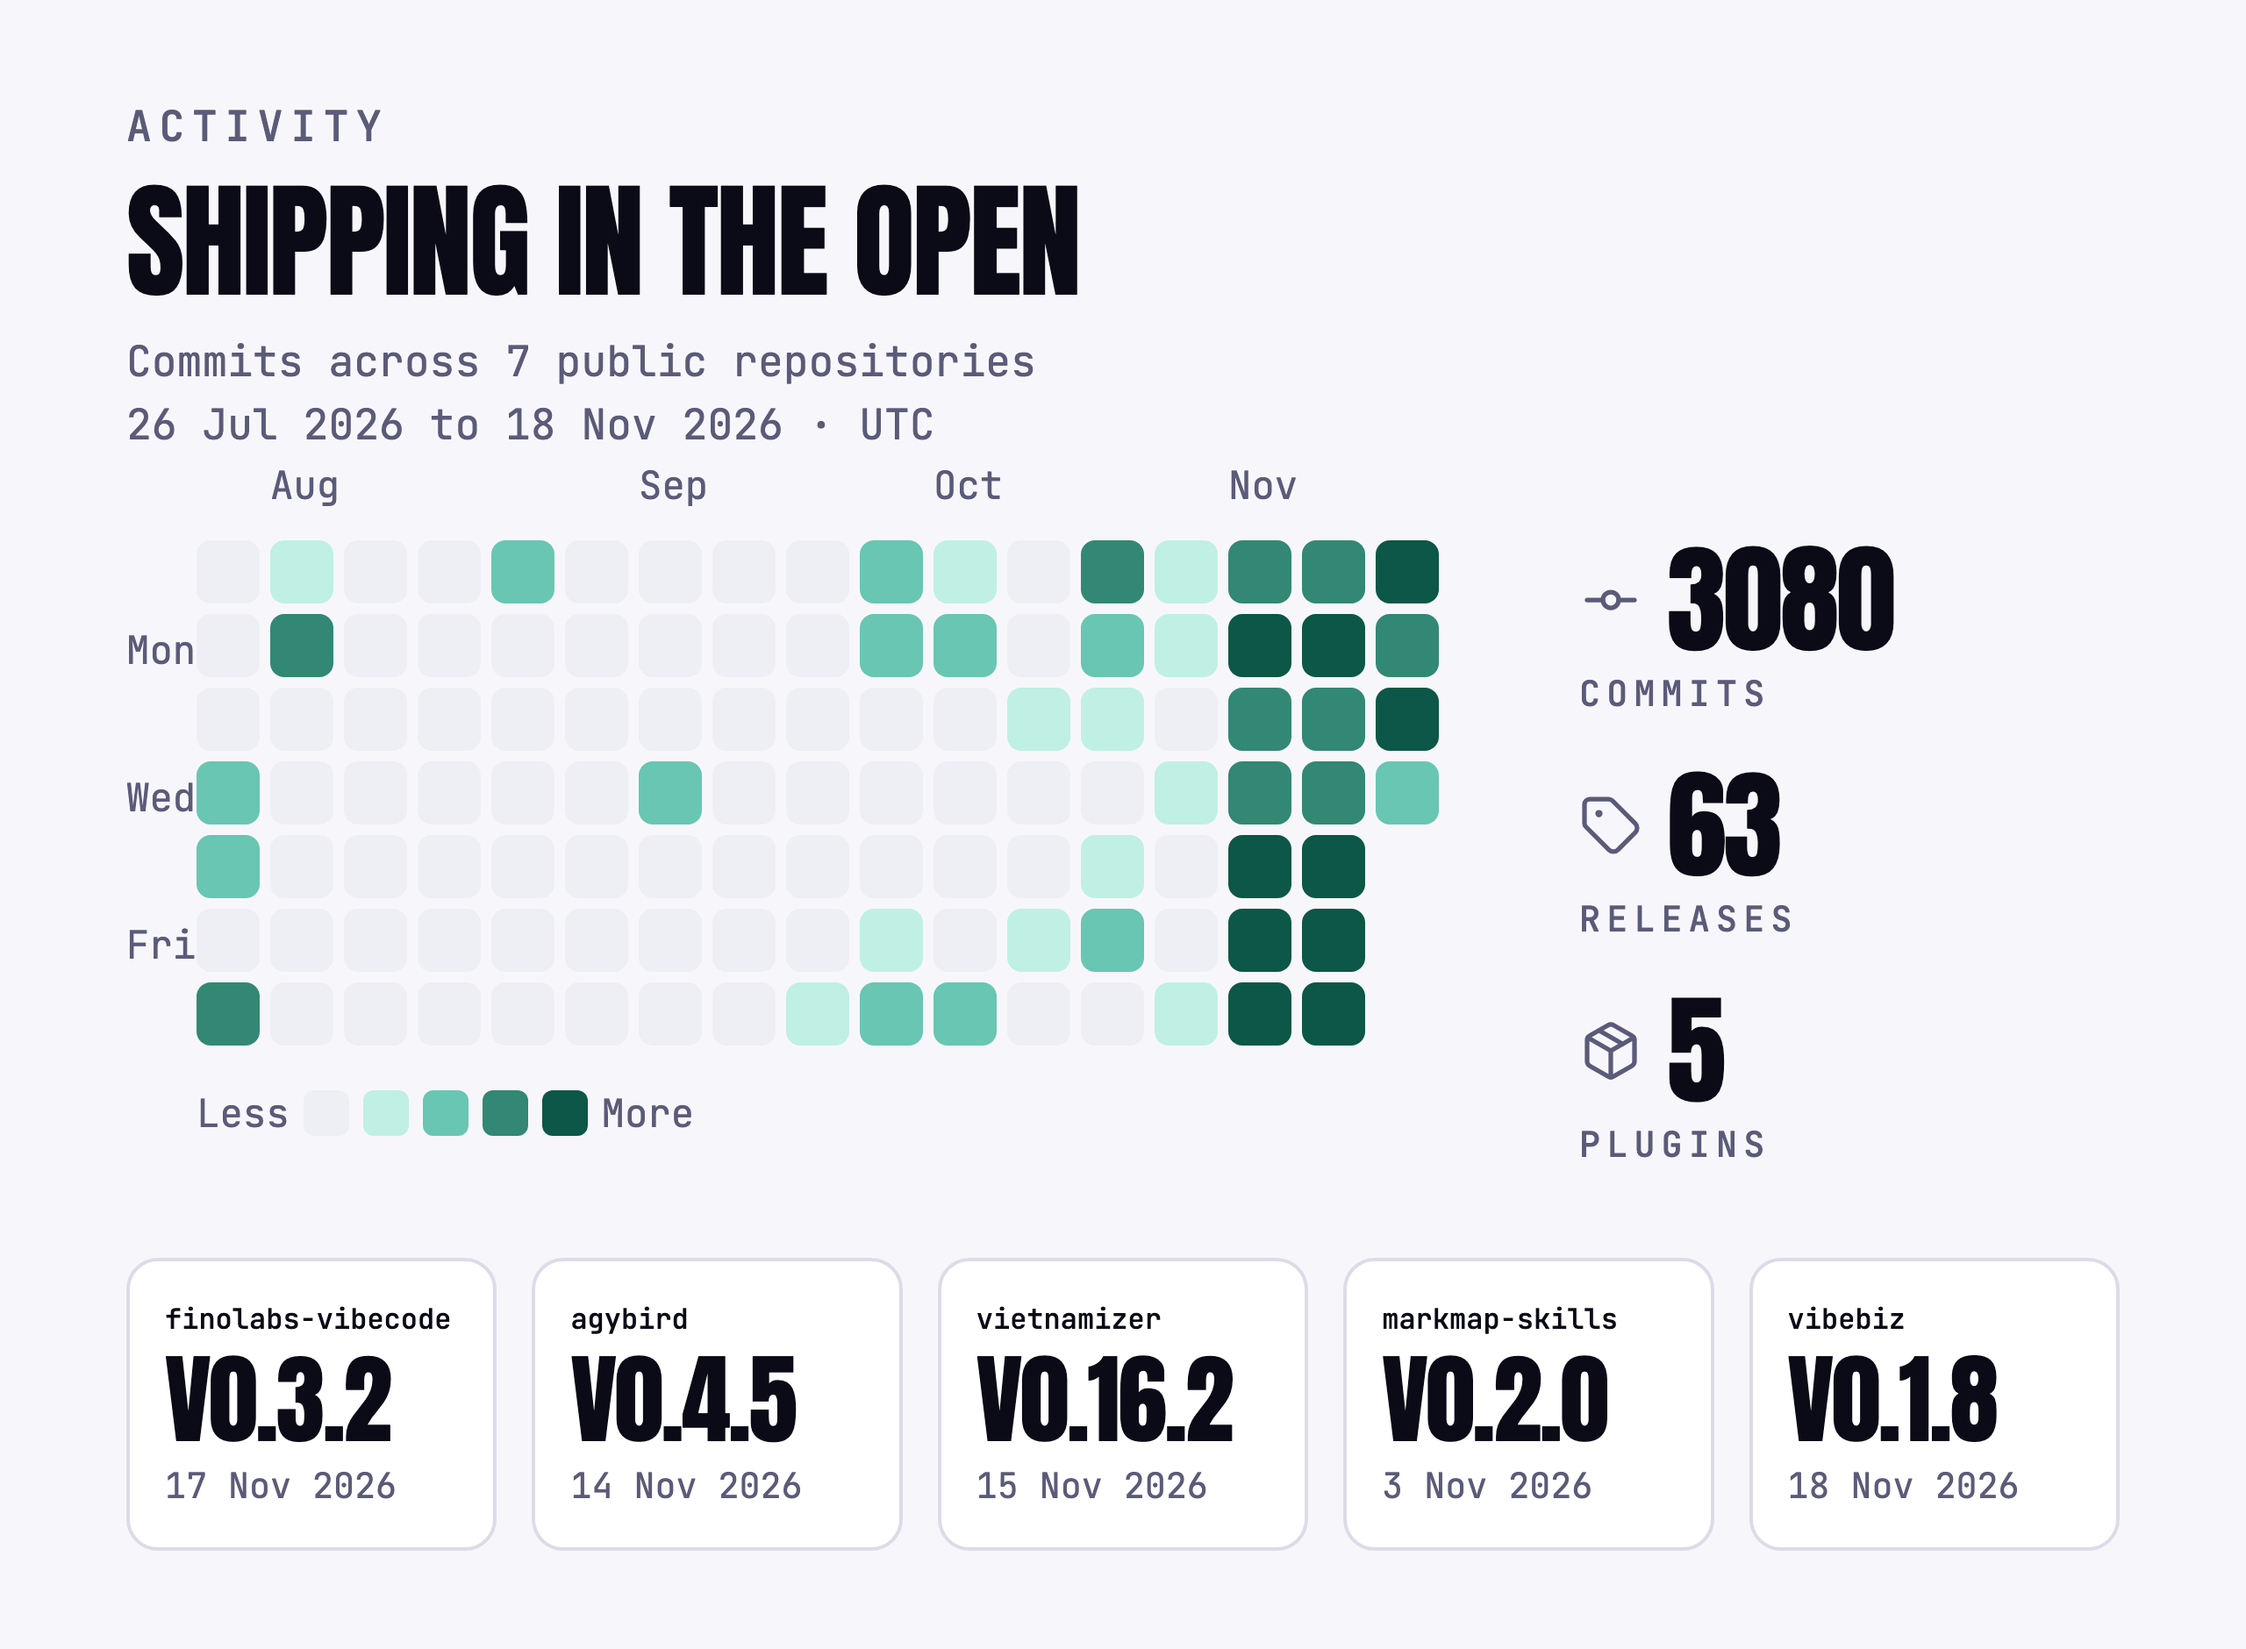
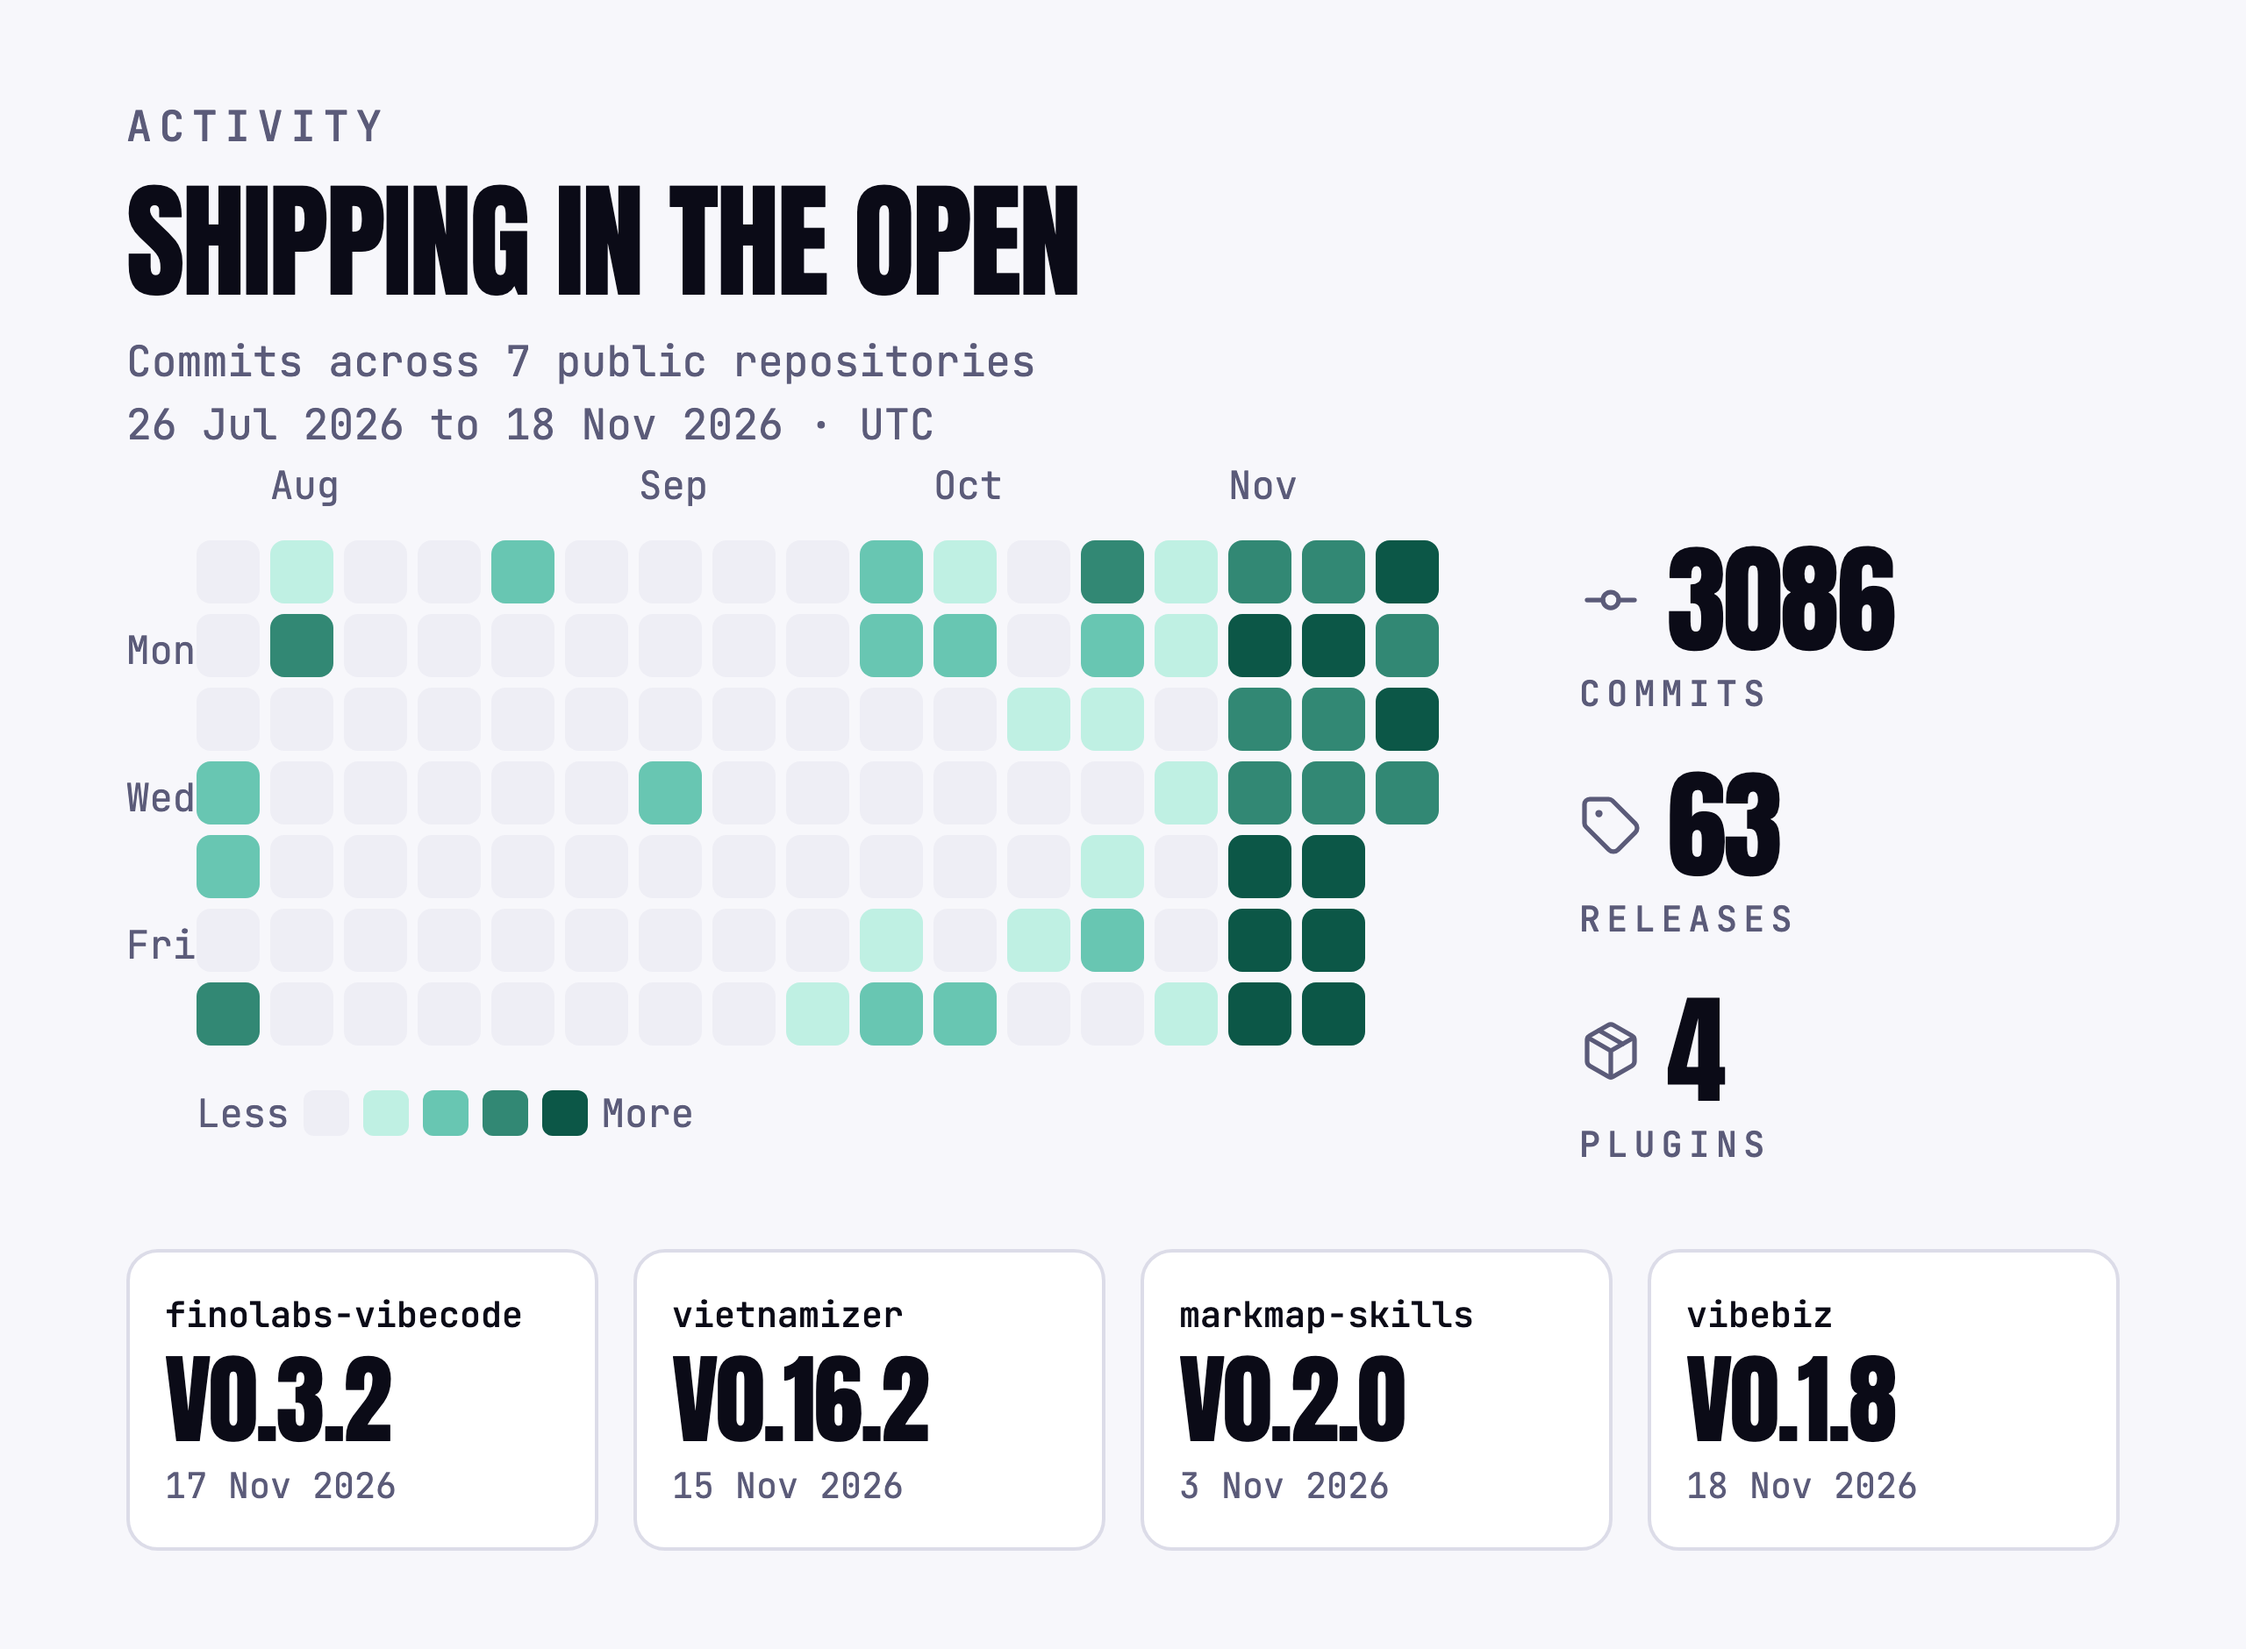
Stop promoting agybird on the org profile
agybird stays public and in the catalog, but FINOLABS no longer promotes
it. fetch-activity.mjs skips plugins in NOT_ON_PROFILE, so the README
table check and the activity tiles both drop it; the README loses its
row and its name in the license line.

diff --git a/profile/README.md b/profile/README.md
@@ -15,12 +15,11 @@ Every plugin lives in its own repository and is listed in one shared catalog, [`
 | Plugin | Description |
 | --- | --- |
 | [finolabs-vibecode](https://github.com/finolabs/vibecode) | 24 skills and 3 agents (reviewer, security-reviewer, navigator) for review routing, verification, setup, run hygiene and quota on demand. |
-| [agybird](https://github.com/finolabs/agybird) | Delegate code work, image generation or editing, and general tasks to the official Google Antigravity CLI through an existing Gemini subscription. |
 | [vietnamizer](https://github.com/finolabs/vietnamizer) | Viết và biên tập tiếng Việt tự nhiên hơn, giữ ý, dữ kiện, code và giọng người viết; hỏi “Vietnamizer làm được gì?” để xem tính năng và thiết lập giọng. |
 | [markmap-skills](https://github.com/finolabs/markmap-skills) | Turn notes and documents into editable Markdown and interactive Markmap mindmaps, for Claude Code, Codex and Antigravity. No background daemon. |
 | [vibebiz](https://github.com/finolabs/vibebiz) | A product owner for founders and business leaders: turns a vague idea for a system, an AI use or an automation into a clear, challenged, measurable PRD. |
 
-finolabs-vibecode, agybird, vietnamizer and markmap-skills are MIT licensed. vibebiz is source-available, not open source: free for noncommercial use under PolyForm Noncommercial 1.0.0, with a [commercial license](https://github.com/finolabs/vibebiz/blob/main/COMMERCIAL-LICENSE.md) for business use.
+finolabs-vibecode, vietnamizer and markmap-skills are MIT licensed. vibebiz is source-available, not open source: free for noncommercial use under PolyForm Noncommercial 1.0.0, with a [commercial license](https://github.com/finolabs/vibebiz/blob/main/COMMERCIAL-LICENSE.md) for business use.
 
 ## Get started
 

diff --git a/scripts/profile-art/README.md b/scripts/profile-art/README.md
@@ -9,7 +9,7 @@ Generates the images on the organization profile (`profile/README.md`).
 
 ## Data
 
-`fetch-activity.mjs` reads, through the `gh` CLI, for every public, non-archived, non-fork repository of the organization: default-branch commits (deduplicated by SHA, counted per UTC author day over 17 weeks) and releases published inside the same window. Plugin names, descriptions and repositories come from `finolabs/plugins` (`.claude-plugin/marketplace.json`); versions and dates from each repository's latest release. Nothing else is shown, and nothing is estimated.
+`fetch-activity.mjs` reads, through the `gh` CLI, for every public, non-archived, non-fork repository of the organization: default-branch commits (deduplicated by SHA, counted per UTC author day over 17 weeks) and releases published inside the same window. Plugin names, descriptions and repositories come from `finolabs/plugins` (`.claude-plugin/marketplace.json`), minus the plugins listed in `NOT_ON_PROFILE` (agybird: public, but no longer promoted); versions and dates from each repository's latest release. Nothing else is shown, and nothing is estimated.
 
 Heatmap levels are the quartiles of the non-zero daily counts in the window, so the legend is relative to this window, not an absolute scale.
 
